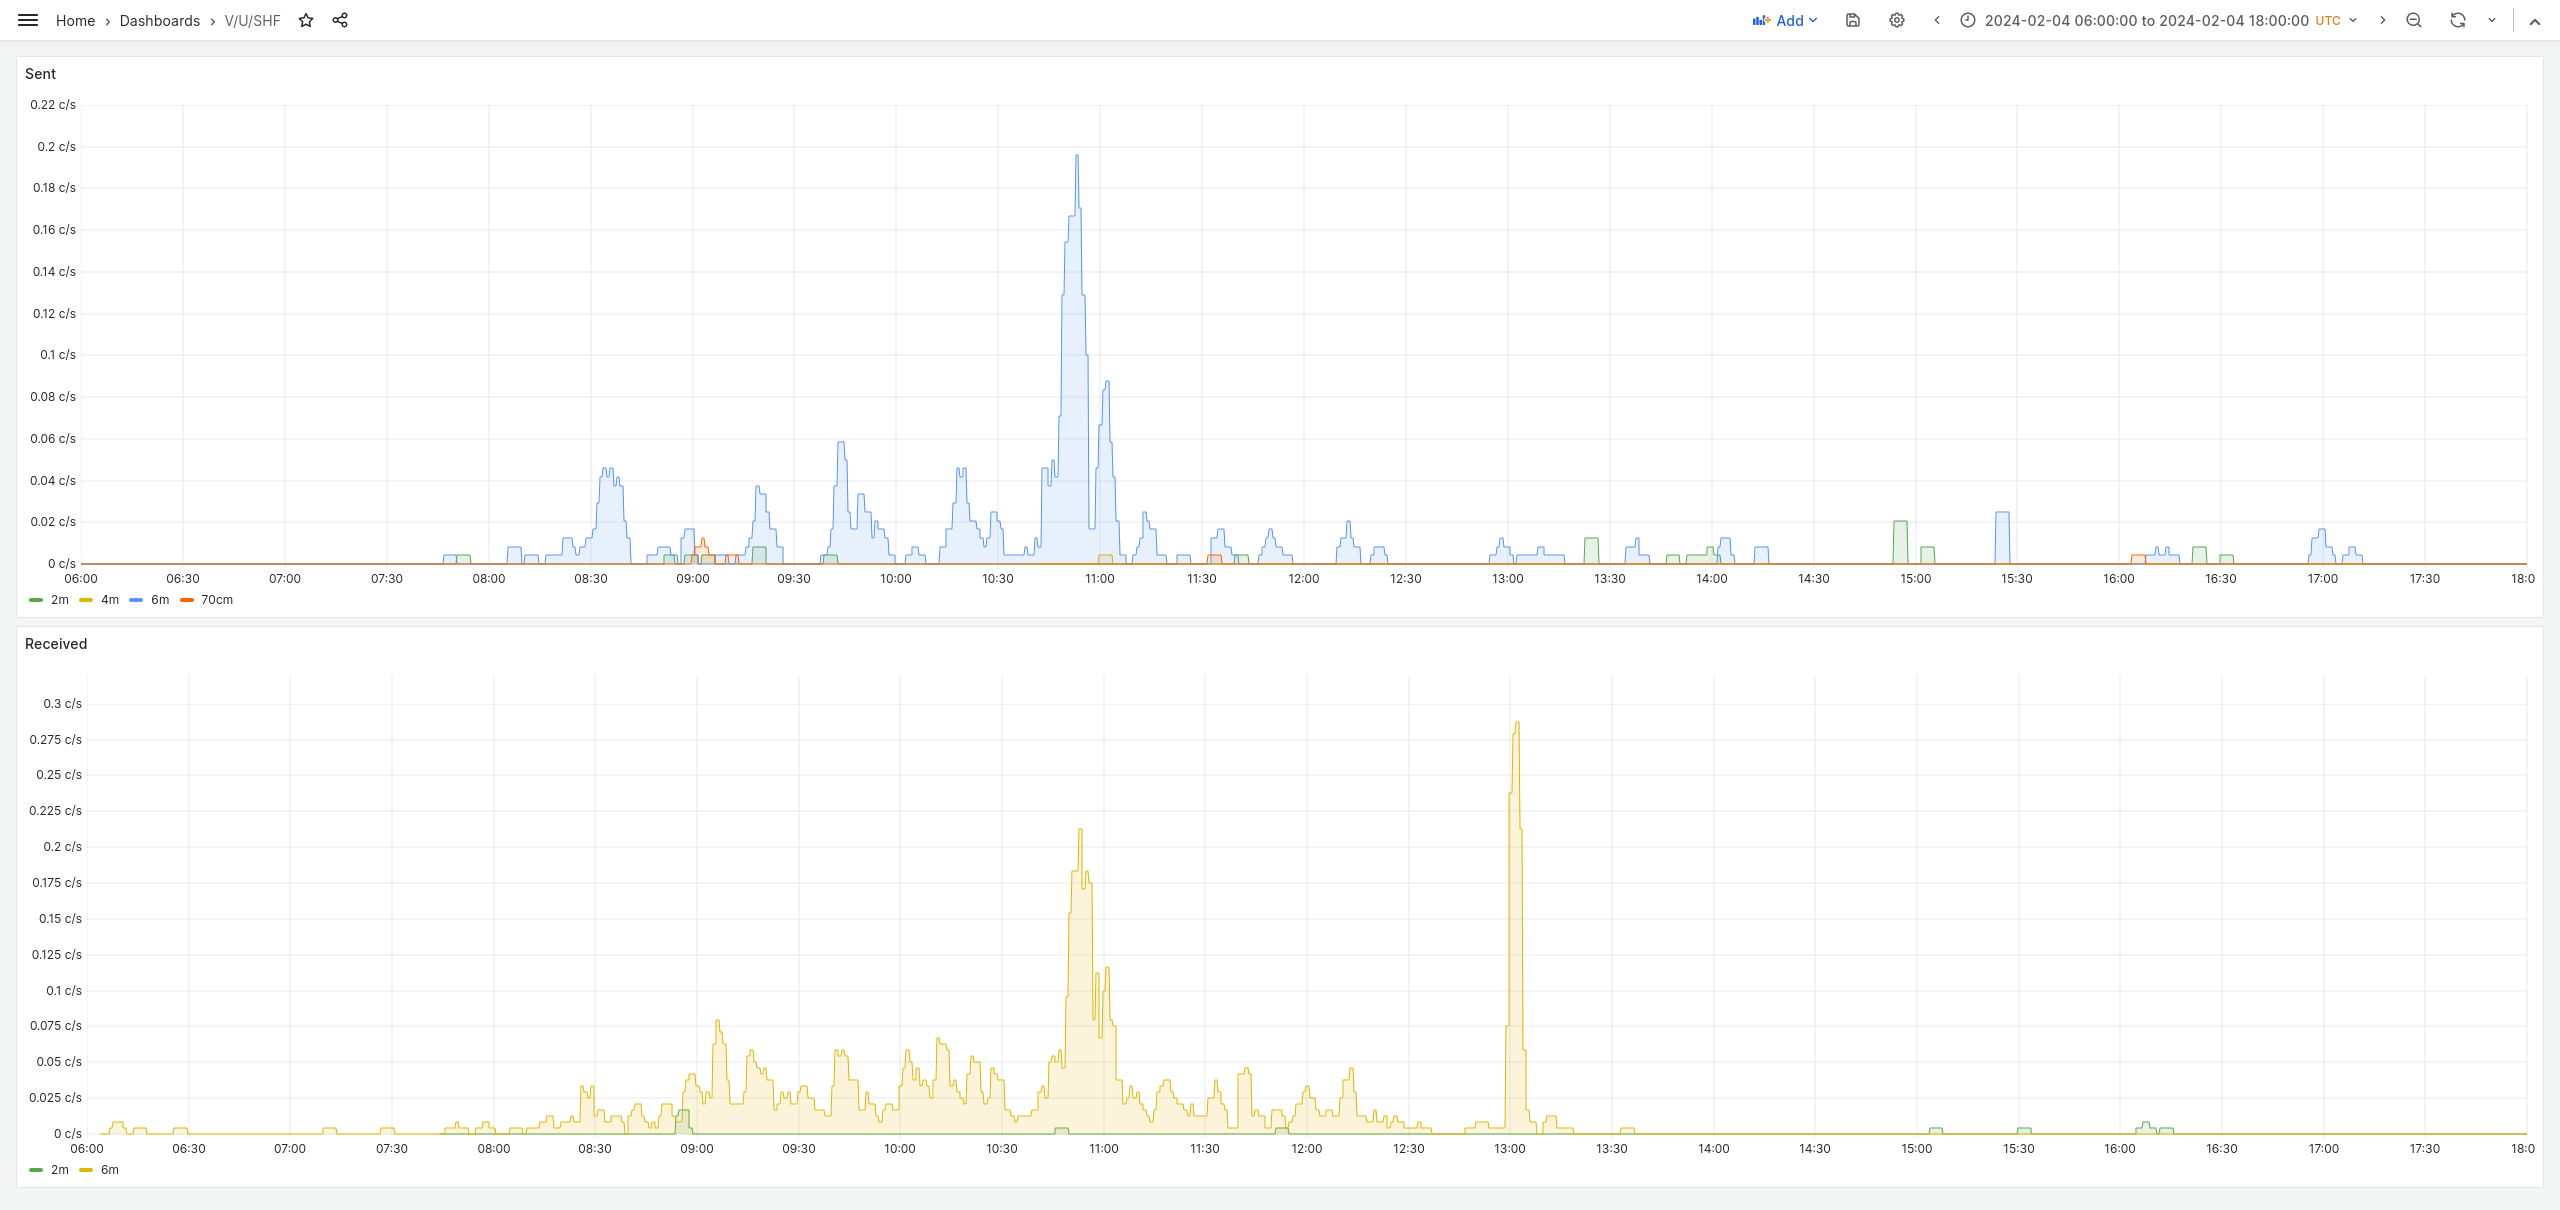
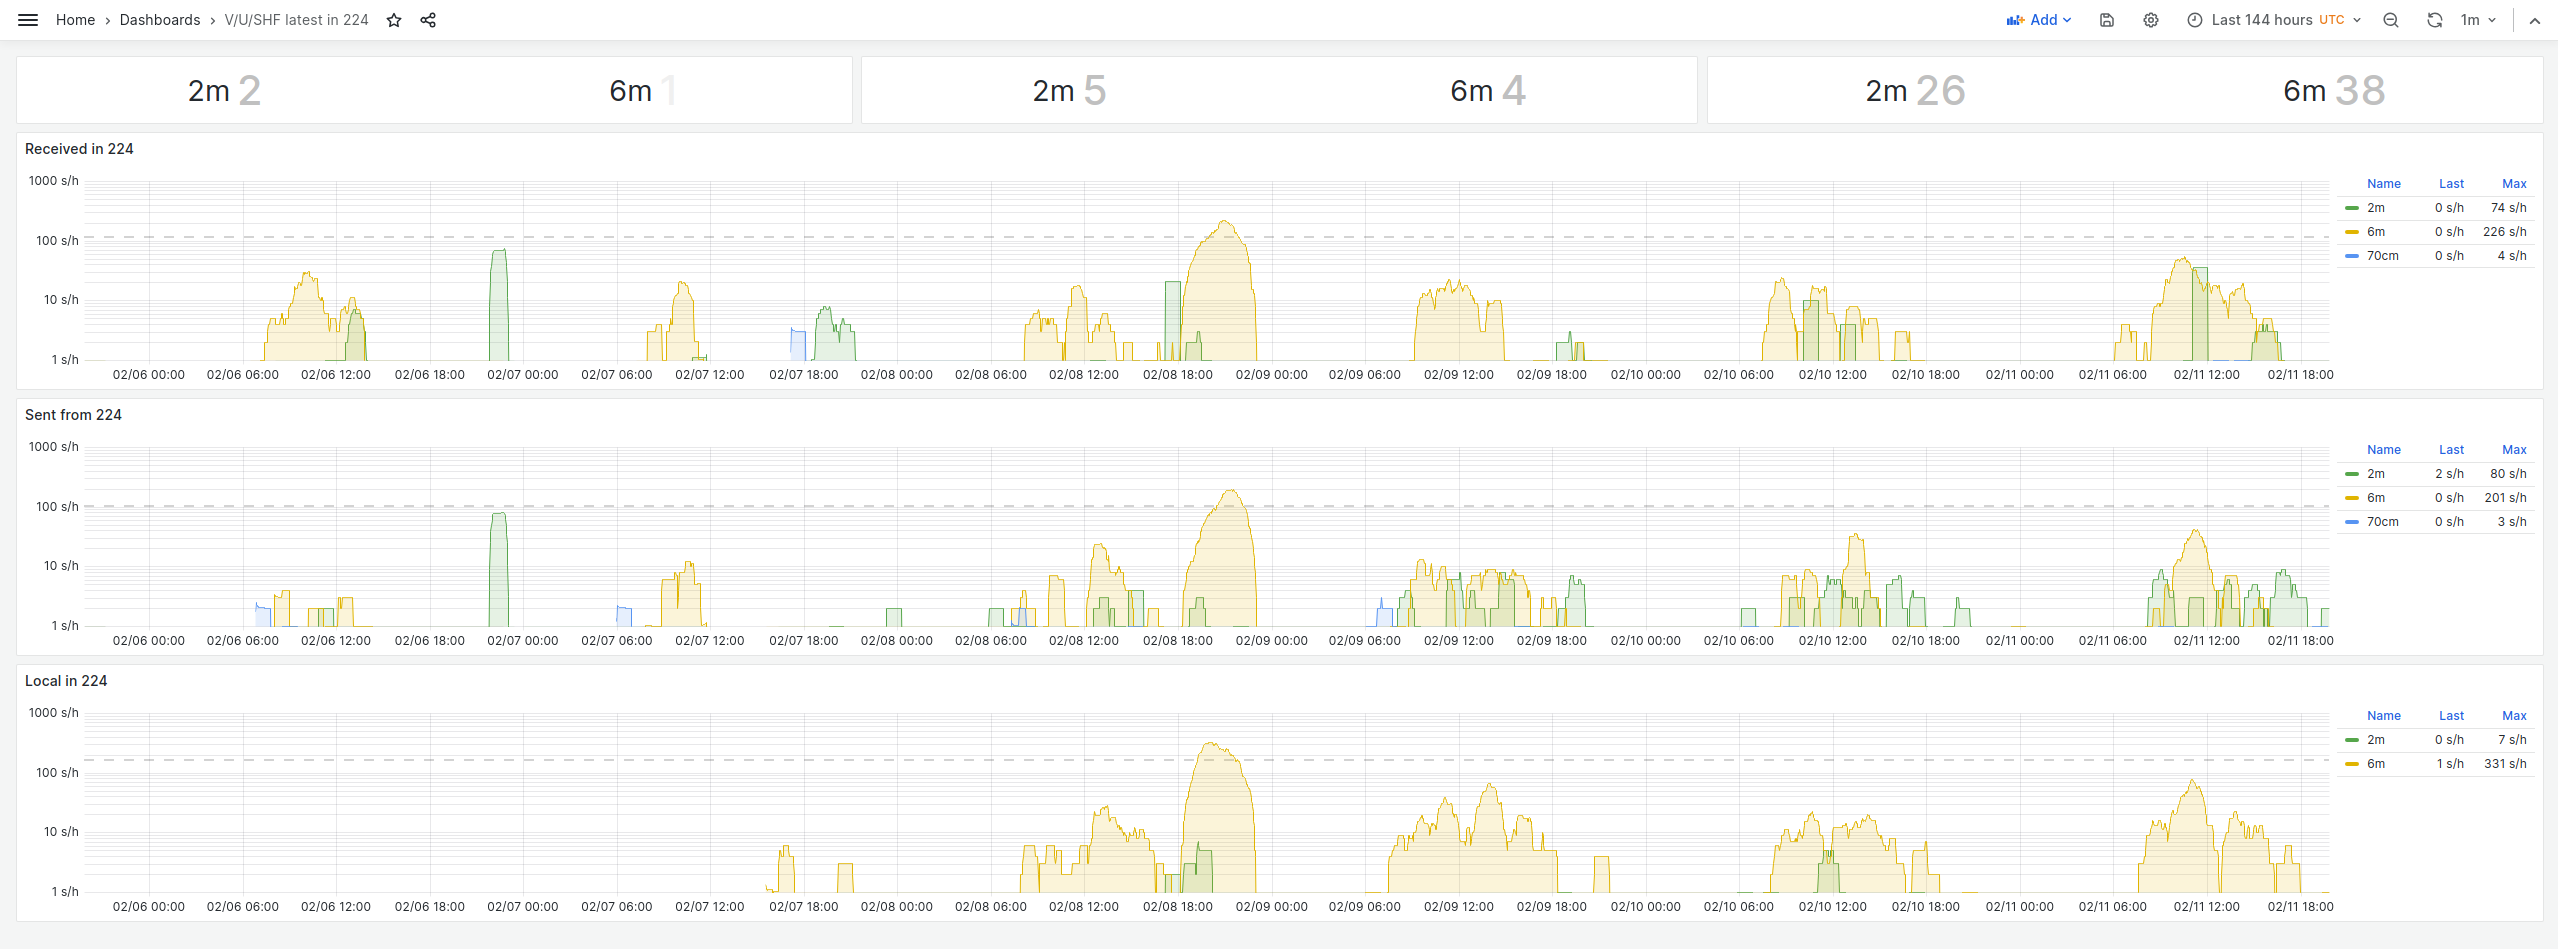
update screenshot to include "locals"

diff --git a/README.md b/README.md
@@ -64,7 +64,9 @@ All settings go through environment variables, with following defaults:
 
 ## Screenshot!
 
-Need to trick Grafana to use same color for each band in both panels, but
-anyway:
+Top row from left to right shows totals for 90m, 3h, and 6h. Y-axis is
+logarithmic, and the dashed line shows 50% waterline.
+
+Would be nice if bands were in frequency order, but that's hardly fatal:
 
 ![Screenshot](screenshot-1.png)
